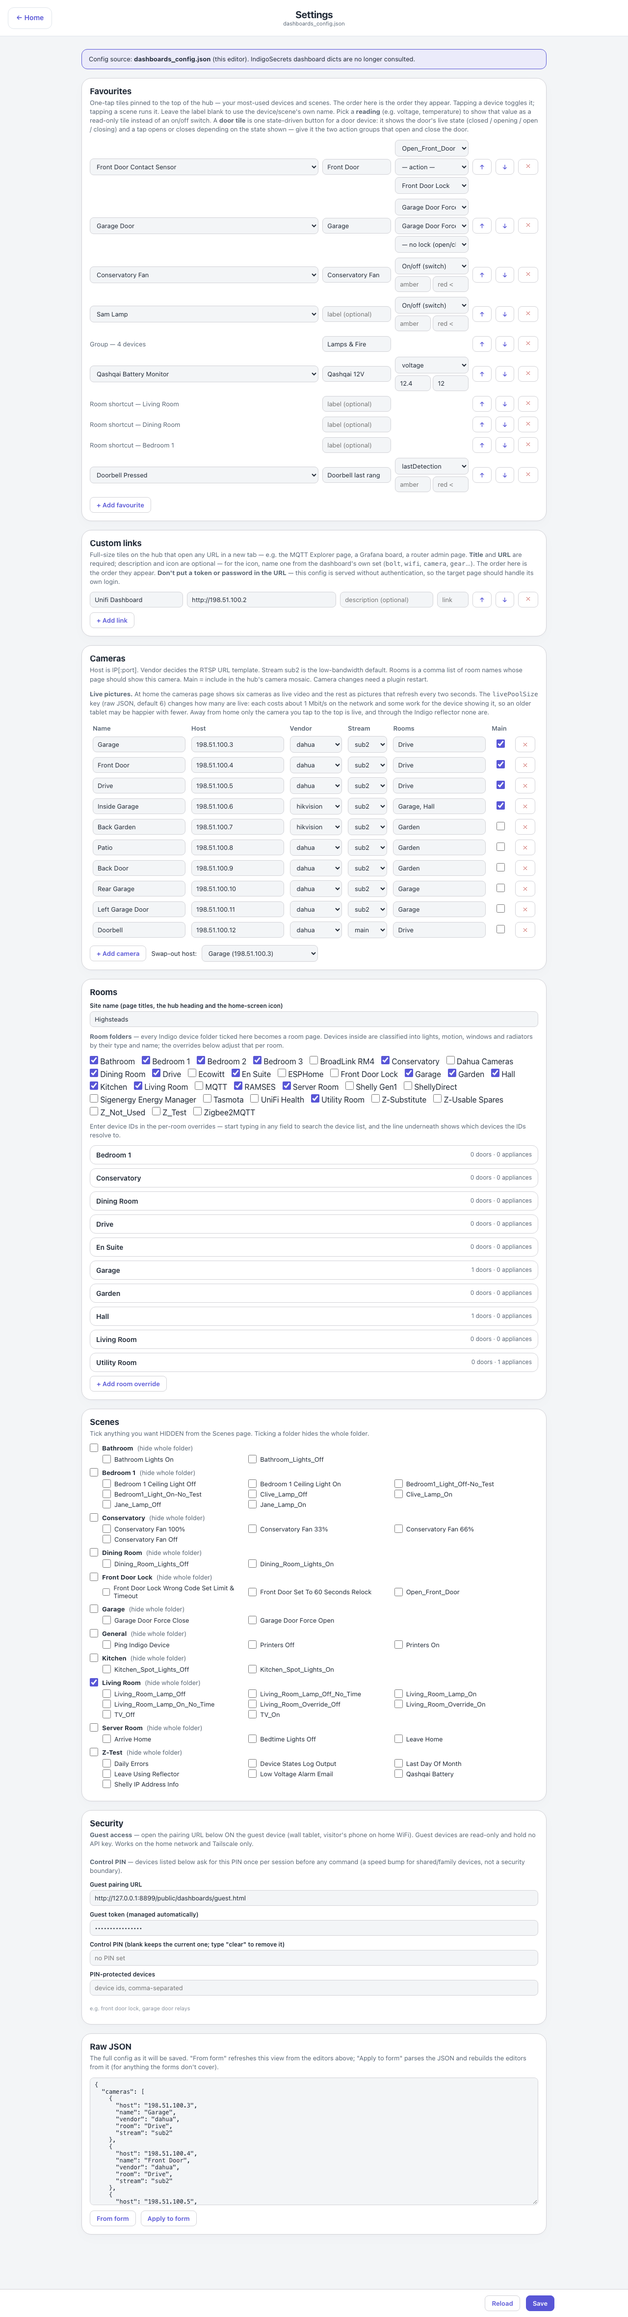
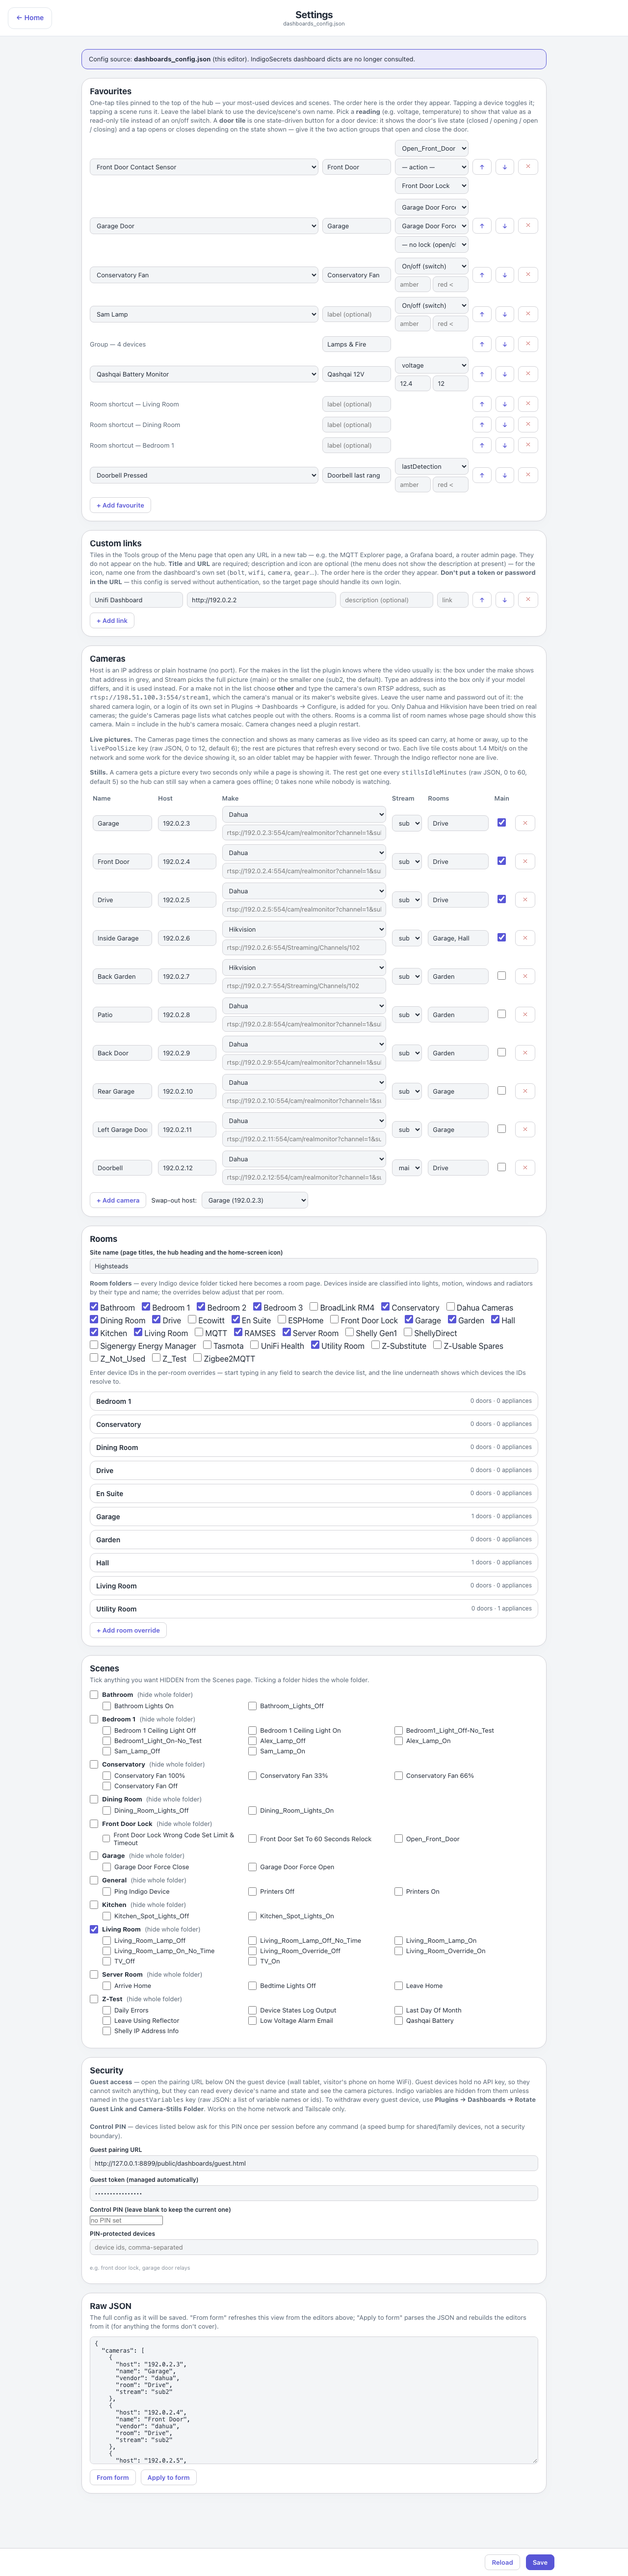
Screenshots: rename a person joined to a word by an underscore
capture_screenshots.py matched --rename names with \b, which treats "_" as
part of the word, so action groups named NAME_Lamp_On passed the proxy
unrenamed and reached the published Scenes and Settings pictures. Names are
now bounded by letters and digits only. Both pictures re-captured and checked
by OCR. record_tour.py gains --eval for scouting.

diff --git a/tools/record_tour.py b/tools/record_tour.py
@@ -429,6 +429,10 @@ async def scout(args, pages, origin, work):
                                url=f"{origin}/public/dashboards/{page}")
                 await asyncio.sleep(args.settle)
                 await cdp.js(TOUR_JS)
+                if args.eval:
+                    print(f"\n== {page}")
+                    print(json.dumps(await cdp.js(args.eval), indent=1)[:6000])
+                    continue
                 info = await cdp.js("__tour.headings()")
                 print(f"\n== {page}  (page height {info['height']}px)")
                 for y, s in info["headings"]:
@@ -518,6 +522,8 @@ def main():
     ap.add_argument("--scout", nargs="*", metavar="PAGE",
                     help="print each page's headings and their positions, to "
                          "choose scroll targets; records nothing")
+    ap.add_argument("--eval", metavar="JS",
+                    help="with --scout, print this expression's value on each page instead")
     ap.add_argument("--scout-shots", metavar="DIR",
                     help="with --scout, also save a whole-page picture of each")
     ap.add_argument("--tour", default=os.path.join(here, "tour.json"))
@@ -534,7 +540,9 @@ def main():
     ap.add_argument("--settle", type=float, default=7.0,
                     help="real seconds a page gets to load its data before "
                          "recording starts")
-    ap.add_argument("--voice", default="Daniel")
+    ap.add_argument("--voice", default="Daniel (Enhanced)",
+                    help="a `say -v '?'` voice; falls back to plain Daniel when "
+                         "the Enhanced download is not on this Mac")
     ap.add_argument("--rate", type=int, default=178, help="words per minute")
     ap.add_argument("--scheme", choices=("light", "dark"), default="light")
     ap.add_argument("--rename", action="append", default=[], metavar="OLD=NEW")
@@ -543,6 +551,10 @@ def main():
     args = ap.parse_args()
     if connect is None:
         sys.exit("needs the 'websockets' package (pip install websockets)")
+    voices = subprocess.run(["say", "-v", "?"], capture_output=True, text=True).stdout
+    if not any(line.startswith(args.voice + " ") for line in voices.splitlines()):
+        print(f"voice {args.voice!r} is not installed; using Daniel")
+        args.voice = "Daniel"
 
     renames = []
     for spec in args.rename:

diff --git a/tools/capture_screenshots.py b/tools/capture_screenshots.py
@@ -7,7 +7,8 @@
 #              network config.
 # Author:      CliveS & Claude Sonnet 5
 # Date:        10-09-2026
-# Version:     1.3 (--rename OLD=NEW for people's names; MACs rewritten; header
+# Version:     1.4 (a name joined to the next word by "_" is renamed too)
+#              1.3 (--rename OLD=NEW for people's names; MACs rewritten; header
 #              lookup made case-insensitive — API replies were never being scrubbed)
 #
 # WHY THIS EXISTS
@@ -139,7 +140,11 @@ class Sanitiser:
         # --rename OLD=NEW (v1.3): people's names, whole words only, so a
         # published capture shows "Alex · Home" rather than a real person.
         self._macs = {}
-        self.renames = [(re.compile(rb"\b" + re.escape(o.encode()) + rb"\b"), n.encode())
+        # Letters and digits bound a name, NOT \b (v1.4): \b counts "_" as part
+        # of the word, so action-group names such as NAME_Lamp_On went through
+        # untouched and reached the published Scenes and Settings captures.
+        self.renames = [(re.compile(rb"(?<![A-Za-z0-9])" + re.escape(o.encode())
+                                    + rb"(?![A-Za-z0-9])"), n.encode())
                         for o, n in (renames or [])]
 
     def _fake_for(self, real):

diff --git a/tests/test_capture_rename.py b/tests/test_capture_rename.py
@@ -27,9 +27,19 @@ def test_names_are_replaced_as_whole_words():
     assert s.name_residue(out) == []
 
 
+def test_a_name_joined_by_an_underscore_is_replaced():
+    # Action groups are named like Jane_Lamp_On. \b treats "_" as a letter,
+    # so this reached the published Scenes capture unrenamed.
+    s = cap.Sanitiser([("Jane", "Sam")])
+    out = s.scrub(b'{"name": "Jane_Lamp_On", "b": "Lamp_Jane", "c": "Janet_On"}')
+    assert b"Sam_Lamp_On" in out and b"Lamp_Sam" in out
+    assert b"Janet_On" in out
+    assert s.name_residue(out) == []
+
+
 def test_a_surviving_name_is_reported():
     s = cap.Sanitiser([("Clive", "Alex")])
-    assert s.name_residue(b"Clive Lamp") == [r"\bClive\b"]
+    assert s.name_residue(b"Clive Lamp") == [rb"(?<![A-Za-z0-9])Clive(?![A-Za-z0-9])".decode()]
 
 
 def test_no_renames_changes_nothing_but_addresses():
